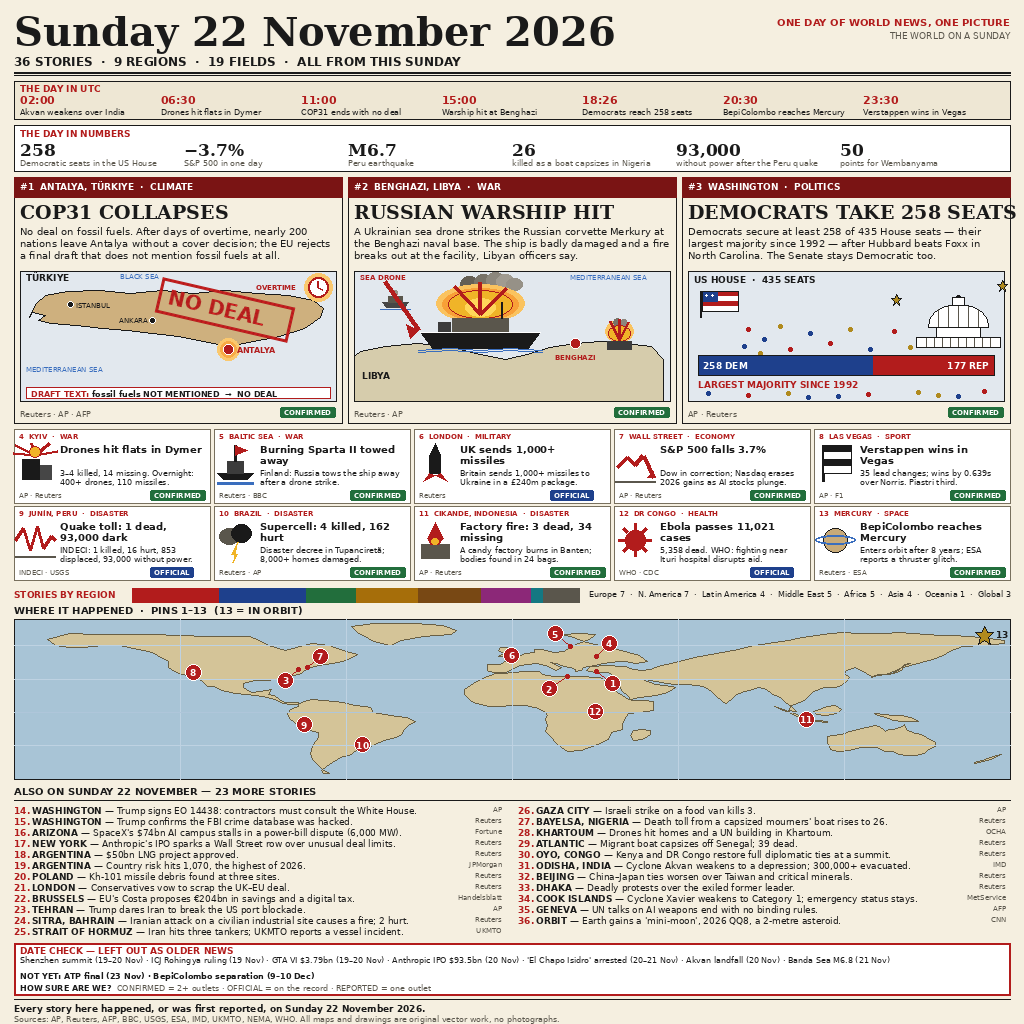
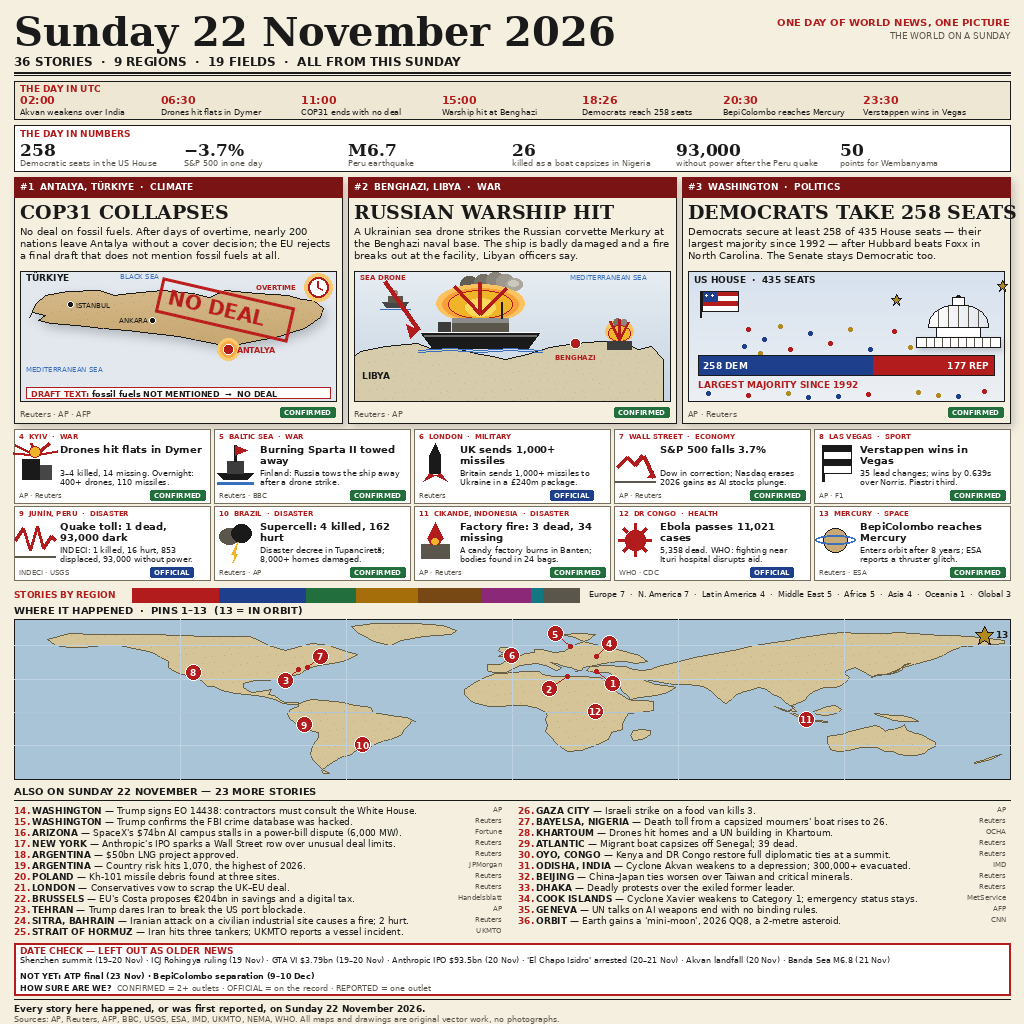
News image 22 v5: style finesse — subtle shading/gradient/texture + detailed coastlines
- Lead boxes: soft drop shadow under each of the 3 boxes
- Turkiye: land gradient (brighter top) + soft shadow + stipple texture + small bays/notches on the north coast
- Libya: sea gradient + ship superstructure highlight + hull lit edge + smoke gradient (dark base to light top) + coastal bays + land stipple
- Capitol: sky gradient + dome left-to-right gradient + soft shadow under base
- World map: coastline detail (Europe fjords/Iberia/Greece, SE Asia Malay/Vietnam, South America bays) + stipple texture on all continents
- Unchanged: layout, 36 stories, 19 fields, 9 regions, all text, NO DEAL stamp, Libya fire, 258/177 bar, confetti

Verified: 2 runs sha256 identical, 197,938 B, 1024x1024

diff --git a/build-image.py b/build-image.py
@@ -12,7 +12,7 @@ import hashlib
 import os
 import sys
 
-from PIL import Image, ImageDraw, ImageFont
+from PIL import Image, ImageDraw, ImageFilter, ImageFont
 
 W, H = 1024, 1024
 PAPER = (245, 239, 224)      # cream paper
@@ -95,6 +95,102 @@ def badge(draw, x, y, level):
 
 def rule(draw, x0, x1, y, fill=INK, width=1):
     draw.line([(x0, y), (x1, y)], fill=fill, width=width)
+
+
+# ---------------------------------------------------------------- v5 finesse
+# Subtle shading / gradient / texture helpers. All deterministic (no
+# randomness, no clock): gradients are per-row lerps, stipple jitter is
+# arithmetic on grid coords, GaussianBlur is deterministic in Pillow.
+def _poly_gradient(img, pts, c0, c1, horizontal=False):
+    """Fill polygon `pts` (absolute image coords) with a subtle gradient
+    c0 -> c1 (top->bottom, or left->right if horizontal)."""
+    xs = [p[0] for p in pts]
+    ys = [p[1] for p in pts]
+    x0, y0 = int(min(xs)), int(min(ys))
+    x1, y1 = int(max(xs)), int(max(ys))
+    w, h = x1 - x0 + 1, y1 - y0 + 1
+    grad = Image.new("RGB", (w, h))
+    gd = ImageDraw.Draw(grad)
+    if horizontal:
+        for j in range(w):
+            t = j / max(1, w - 1)
+            c = tuple(int(round(c0[i] + (c1[i] - c0[i]) * t)) for i in range(3))
+            gd.line([(j, 0), (j, h - 1)], fill=c)
+    else:
+        for j in range(h):
+            t = j / max(1, h - 1)
+            c = tuple(int(round(c0[i] + (c1[i] - c0[i]) * t)) for i in range(3))
+            gd.line([(0, j), (w - 1, j)], fill=c)
+    mask = Image.new("L", (w, h), 0)
+    ImageDraw.Draw(mask).polygon([(x - x0, y - y0) for x, y in pts], fill=255)
+    img.paste(grad, (x0, y0), mask)
+
+
+def _rect_gradient(img, x0, y0, w, h, top, bottom):
+    """Vertical gradient over a rectangle (top -> bottom)."""
+    x0, y0, w, h = int(x0), int(y0), int(w), int(h)
+    grad = Image.new("RGB", (w, h))
+    gd = ImageDraw.Draw(grad)
+    for j in range(h):
+        t = j / max(1, h - 1)
+        c = tuple(int(round(top[i] + (bottom[i] - top[i]) * t)) for i in range(3))
+        gd.line([(0, j), (w - 1, j)], fill=c)
+    img.paste(grad, (x0, y0))
+
+
+def _soft_shadow(img, pts, offset=(3, 5), blur=5, alpha=55):
+    """Soft drop shadow of a polygon: black shape offset down-right,
+    blurred, composited at low alpha. Draw BEFORE the shape itself so
+    the shape covers the shadow where they overlap."""
+    layer = Image.new("RGBA", img.size, (0, 0, 0, 0))
+    ld = ImageDraw.Draw(layer)
+    ld.polygon([(x + offset[0], y + offset[1]) for x, y in pts],
+               fill=(0, 0, 0, alpha))
+    layer = layer.filter(ImageFilter.GaussianBlur(blur))
+    base = img.convert("RGBA")
+    out = Image.alpha_composite(base, layer)
+    img.paste(out.convert("RGB"), (0, 0))
+
+
+def _rect_shadow(img, x0, y0, x1, y1, offset=(3, 4), blur=4, alpha=50):
+    """Soft drop shadow of a rectangle (for the lead boxes)."""
+    layer = Image.new("RGBA", img.size, (0, 0, 0, 0))
+    ld = ImageDraw.Draw(layer)
+    ld.rectangle([x0 + offset[0], y0 + offset[1], x1 + offset[0], y1 + offset[1]],
+                 fill=(0, 0, 0, alpha))
+    layer = layer.filter(ImageFilter.GaussianBlur(blur))
+    base = img.convert("RGBA")
+    out = Image.alpha_composite(base, layer)
+    img.paste(out.convert("RGB"), (0, 0))
+
+
+def _inside(px, py, pts):
+    """Point-in-polygon (ray casting), for stipple clipping."""
+    inside = False
+    n = len(pts)
+    j = n - 1
+    for i in range(n):
+        xi, yi = pts[i]
+        xj, yj = pts[j]
+        if (yi > py) != (yj > py):
+            if px < (xj - xi) * (py - yi) / (yj - yi) + xi:
+                inside = not inside
+        j = i
+    return inside
+
+
+def _stipple(draw, pts, dot, step=9):
+    """Very subtle 1px dot texture inside a polygon. Jitter is
+    arithmetic on grid coords (deterministic); dots are only a shade
+    darker than the land so they read as texture, not noise."""
+    xs = [p[0] for p in pts]
+    ys = [p[1] for p in pts]
+    for gy in range(int(min(ys)) + 4, int(max(ys)), step):
+        for gx in range(int(min(xs)) + 4, int(max(xs)), step):
+            jx = ((gx * 7 + gy * 13) % 5) - 2
+            jy = ((gx * 11 + gy * 3) % 5) - 2
+            if _inside(gx + jx, gy + jy, pts):
+                draw.point((gx + jx, gy + jy), fill=dot)
 
 
 # ---------------------------------------------------------------- data
@@ -334,22 +430,23 @@ GREENLAND = [
 SOUTH_AMERICA = [
     (-77, 7), (-75, 10), (-72, 12), (-68, 11), (-64, 10), (-61, 9),
     (-57, 6), (-53, 5), (-51, 4), (-50, 0), (-44, -3), (-38, -5),
-    (-35, -8), (-37, -11), (-39, -15), (-40, -20), (-42, -23), (-46, -25),
-    (-48, -27), (-52, -32), (-57, -35), (-58, -38), (-62, -41), (-65, -45),
-    (-67, -49), (-69, -52), (-68, -55), (-66, -55), (-68, -52), (-70, -48),
-    (-72, -42), (-73, -37), (-72, -30), (-70, -23), (-70, -18), (-75, -15),
-    (-77, -12), (-80, -6), (-81, -1), (-80, 3), (-77, 5),
+    (-35, -8), (-36, -7), (-37, -11), (-39, -15), (-40, -20), (-42, -23),
+    (-44, -24), (-46, -25), (-48, -27), (-52, -32), (-57, -35), (-58, -38),
+    (-62, -41), (-65, -45), (-67, -49), (-69, -52), (-68, -55), (-66, -55),
+    (-68, -52), (-70, -48), (-72, -42), (-73, -37), (-72, -30), (-71, -26),
+    (-70, -23), (-70, -18), (-75, -15), (-77, -12), (-80, -6), (-81, -1),
+    (-80, 3), (-77, 5),
 ]
 EUROPE = [
-    (18, 70), (25, 71), (30, 70), (28, 66), (24, 62), (21, 59), (19, 55),
+    (18, 70), (25, 71), (30, 70), (29, 68), (28, 66), (24, 62), (21, 59), (19, 55),
     (15, 54), (11, 57), (8, 57), (8, 54), (5, 53), (3, 51), (0, 50),
-    (-2, 49), (-2, 47), (-4, 43), (-9, 43), (-9, 38), (-8, 37), (-6, 36),
+    (-2, 49), (-2, 47), (-4, 43), (-9, 43), (-9, 41), (-9, 38), (-8, 37), (-6, 36),
     (-2, 36), (0, 39), (3, 42), (6, 43), (9, 44), (12, 42), (14, 40),
-    (16, 38), (18, 40), (16, 42), (14, 45), (16, 44), (18, 42), (19, 41),
-    (21, 40), (23, 39), (23, 37), (25, 38), (26, 40), (28, 41), (30, 42),
+    (16, 38), (17, 39), (18, 40), (16, 42), (14, 45), (16, 44), (18, 42), (19, 41),
+    (21, 40), (23, 39), (24, 38), (23, 37), (25, 38), (26, 40), (28, 41), (30, 42),
     (33, 44), (36, 45), (39, 46), (41, 46), (43, 45), (45, 44), (47, 45),
     (49, 46), (48, 48), (46, 51), (42, 54), (38, 57), (34, 59), (30, 61),
-    (27, 63), (24, 66), (21, 68),
+    (27, 63), (24, 66), (23, 67), (21, 68),
 ]
 BRITAIN = [
     (-5, 50), (-3, 53), (-5, 56), (-4, 58), (-2, 58), (0, 57), (0, 53),
@@ -379,8 +476,8 @@ ASIA = [
     (163, 59), (158, 55), (156, 51), (152, 48), (148, 45), (144, 42),
     (141, 40), (138, 37), (135, 34), (132, 33), (130, 32), (128, 35),
     (127, 37), (126, 38), (124, 40), (121, 38), (120, 35), (122, 31),
-    (121, 28), (119, 24), (117, 22), (113, 22), (109, 19), (106, 12),
-    (104, 9), (101, 6), (100, 2), (103, 1), (101, 5), (99, 9), (97, 13),
+    (121, 28), (119, 24), (117, 22), (113, 22), (109, 19), (107, 15), (106, 12),
+    (105, 10), (104, 9), (101, 6), (102, 4), (100, 2), (103, 1), (101, 5), (99, 9), (97, 13),
     (94, 16), (92, 21), (89, 22), (87, 21), (84, 19), (81, 16), (80, 13),
     (78, 9), (77, 8), (76, 10), (74, 14), (72, 19), (70, 22), (67, 24),
     (63, 25), (59, 25), (56, 26), (54, 27), (52, 28), (50, 29), (48, 30),
@@ -435,6 +532,9 @@ def draw_world_map(draw, x0, y0, w, h):
         pts = [world_xy(lat, lon, x0, y0, w, h) for lon, lat in poly]
         # darker land + darker coastline so continents pop off the sea
         draw.polygon(pts, fill=(212, 196, 152), outline=(105, 95, 68))
+        # v5: very subtle dot texture on the land (reads as paper grain,
+        # not noise) — drawn before graticule/pins so they stay crisp
+        _stipple(draw, pts, (192, 174, 128), step=9)
     # graticule: every 60 deg lon, lat 60/30/-30; equator slightly stronger
     for lon in (-120, -60, 0, 60, 120):
         x = x0 + (lon + 180.0) / 360.0 * w
@@ -475,16 +575,23 @@ def draw_turkiye(img, draw, x0, y0, w, h):
     "a conference that failed", not just a map. The draft-text box stays
     as a single line at the bottom. Everything stays inside (x0, y0, w, h)."""
     draw.rectangle([x0, y0, x0 + w, y0 + h], fill=(226, 232, 238), outline=INK, width=1)
-    poly = [(0.03, 0.36), (0.05, 0.26), (0.08, 0.19), (0.15, 0.16),
-            (0.25, 0.15), (0.35, 0.17), (0.45, 0.15), (0.55, 0.17),
-            (0.65, 0.15), (0.75, 0.17), (0.85, 0.19), (0.93, 0.23),
-            (0.96, 0.29), (0.95, 0.36), (0.90, 0.44), (0.82, 0.50),
-            (0.74, 0.54), (0.66, 0.58), (0.58, 0.54), (0.50, 0.50),
+    poly = [(0.03, 0.36), (0.04, 0.31), (0.05, 0.26), (0.08, 0.19), (0.15, 0.16),
+            (0.25, 0.15), (0.30, 0.19), (0.35, 0.17), (0.45, 0.15), (0.55, 0.17),
+            (0.60, 0.20), (0.65, 0.15), (0.75, 0.17), (0.85, 0.19), (0.89, 0.22),
+            (0.93, 0.23), (0.96, 0.29), (0.95, 0.36), (0.90, 0.44), (0.86, 0.47),
+            (0.82, 0.50), (0.74, 0.54), (0.66, 0.58), (0.58, 0.54), (0.50, 0.50),
             (0.42, 0.48), (0.34, 0.46), (0.26, 0.44), (0.18, 0.42),
             (0.10, 0.40), (0.06, 0.38), (0.08, 0.34), (0.04, 0.32)]
     pts = [(x0 + px * w, y0 + py * h) for px, py in poly]
-    # warmer, darker land so the map reads as a shape, not a pale silhouette
-    draw.polygon(pts, fill=(206, 176, 126), outline=INK)
+    # v5: soft shadow under the map (drawn first, land covers the
+    # overlap, only the fringe shows on the sea) + subtle vertical
+    # gradient on the land (brighter at the top, a touch darker below)
+    # + very subtle dot texture — warmer, darker land so the map reads
+    # as a shape, not a pale silhouette
+    _soft_shadow(img, pts, offset=(3, 5), blur=5, alpha=55)
+    _poly_gradient(img, pts, (212, 184, 136), (198, 166, 112))
+    draw.polygon(pts, fill=None, outline=INK)
+    _stipple(draw, pts, (186, 156, 106), step=9)
     draw.text((x0 + 6, y0 + 1), "TÜRKIYE", font=font(SANSB, 9), fill=INK)
     draw.text((x0 + 100, y0 + 1), "BLACK SEA", font=font(SANS, 7), fill=BLUE2)
     # OVERTIME clock, top right (in the Black Sea, clear of the land),
@@ -533,7 +640,7 @@ def draw_turkiye(img, draw, x0, y0, w, h):
               font=font(SANSB, 8), fill=INK)
 
 
-def draw_libya(draw, x0, y0, w, h):
+def draw_libya(img, draw, x0, y0, w, h):
     """Libya / Mediterranean SCENE (130px box): the sea fills the top
     two-thirds, a BIG burning warship (120px hull) sits low in the sea
     with a two-tier orange fire and five smoke puffs billowing up and
@@ -541,15 +648,21 @@ def draw_libya(draw, x0, y0, w, h):
     a burning port facility on the coast near Benghazi, and a thick red
     SEA DRONE arrow. At 300px the first thing seen is the burning ship.
     Everything stays inside the box (x0, y0, w, h)."""
-    draw.rectangle([x0, y0, x0 + w, y0 + h], fill=(226, 232, 238), outline=INK, width=1)
+    # v5: subtle vertical gradient on the sea (lighter at the top,
+    # deeper below) instead of a flat fill
+    _rect_gradient(img, x0, y0, w, h, (230, 236, 241), (198, 212, 226))
+    draw.rectangle([x0, y0, x0 + w, y0 + h], outline=INK, width=1)
     # land: north coast lower than v3 (more sea room for the ship +
     # smoke), with the Sidra gulf dip; extends past the bottom
-    poly = [(0.02, 0.62), (0.10, 0.58), (0.20, 0.56), (0.30, 0.58),
-            (0.40, 0.64), (0.48, 0.68), (0.55, 0.64), (0.62, 0.59),
-            (0.70, 0.56), (0.78, 0.54), (0.86, 0.56), (0.94, 0.58),
+    poly = [(0.02, 0.62), (0.10, 0.58), (0.20, 0.56), (0.25, 0.60),
+            (0.30, 0.58), (0.40, 0.64), (0.44, 0.66), (0.48, 0.68),
+            (0.55, 0.64), (0.62, 0.59), (0.70, 0.56), (0.78, 0.54),
+            (0.86, 0.56), (0.90, 0.60), (0.94, 0.58),
             (0.98, 0.68), (0.98, 1.0), (0.0, 1.0), (0.0, 0.66)]
     pts = [(x0 + px * w, y0 + py * h) for px, py in poly]
     draw.polygon(pts, fill=LAND2, outline=INK)
+    # v5: very subtle dot texture on the land
+    _stipple(draw, pts, (194, 182, 148), step=9)
     draw.text((x0 + 6, y0 + 2), "SEA DRONE", font=font(SANSB, 7), fill=RED)
     draw.text((x0 + w - 100, y0 + 2), "MEDITERRANEAN SEA", font=font(SANS, 7), fill=BLUE2)
     draw.text((x0 + 8, y0 + 0.76 * h), "LIBYA", font=font(SANSB, 9), fill=INK)
@@ -578,12 +691,15 @@ def draw_libya(draw, x0, y0, w, h):
     draw.line([(sx2 - 15, sy2 + 7), (sx2 + 15, sy2 + 7)], fill=BLUE2, width=1)
     # BIG burning warship, low in the sea (waterline just above the coast)
     sx, sy = x0 + 0.40 * w, y0 + 0.52 * h
-    # smoke: 5 puffs billowing up and to the right (wind), above the fire
-    draw.ellipse([sx - 20, sy - 62, sx - 2, sy - 46], fill=(100, 95, 85))
-    draw.ellipse([sx - 6, sy - 64, sx + 12, sy - 48], fill=(120, 115, 105))
-    draw.ellipse([sx + 6, sy - 66, sx + 24, sy - 50], fill=(140, 135, 125))
-    draw.ellipse([sx + 16, sy - 64, sx + 34, sy - 50], fill=(160, 155, 145))
-    draw.ellipse([sx + 26, sy - 60, sx + 42, sy - 48], fill=(150, 145, 135))
+    # smoke: 5 puffs billowing up and to the right (wind), above the
+    # fire — v5: clean gradient, darkest at the base, lightest at the
+    # top, plus a pale highlight on the topmost puff
+    draw.ellipse([sx - 20, sy - 62, sx - 2, sy - 46], fill=(98, 93, 83))
+    draw.ellipse([sx - 6, sy - 64, sx + 12, sy - 48], fill=(118, 113, 103))
+    draw.ellipse([sx + 6, sy - 66, sx + 24, sy - 50], fill=(138, 133, 123))
+    draw.ellipse([sx + 16, sy - 64, sx + 34, sy - 50], fill=(158, 153, 143))
+    draw.ellipse([sx + 26, sy - 60, sx + 42, sy - 48], fill=(172, 167, 157))
+    draw.ellipse([sx + 28, sy - 58, sx + 38, sy - 52], fill=(205, 200, 190))
     # fire: two-tier orange glow + bright core + tall red flame tongues
     draw.ellipse([sx - 44, sy - 54, sx + 44, sy - 16], fill=(250, 195, 95))
     draw.ellipse([sx - 38, sy - 50, sx + 38, sy - 18], fill=(248, 160, 55))
@@ -591,14 +707,18 @@ def draw_libya(draw, x0, y0, w, h):
     draw.ellipse([sx - 15, sy - 40, sx + 15, sy - 22], fill=(255, 215, 90))
     for dx, dy in [(-26, -52), (0, -56), (26, -50)]:
         draw.line([(sx, sy - 24), (sx + dx, sy + dy)], fill=RED, width=4)
-    # superstructure + funnel + mast
+    # superstructure + funnel + mast — v5: light strip on top of the
+    # superstructure so the firelight reads as shading, not flat grey
     draw.rectangle([sx - 28, sy - 20, sx + 28, sy - 6], fill=GREY)
+    draw.rectangle([sx - 28, sy - 20, sx + 28, sy - 16], fill=(140, 140, 140))
     draw.rectangle([sx - 42, sy - 16, sx - 30, sy - 6], fill=(60, 60, 60))
     draw.line([(sx + 22, sy - 20), (sx + 22, sy - 36)], fill=INK, width=2)
-    # hull: dark, 120px wide
+    # hull: dark, 120px wide — v5: thin grey highlight just under the
+    # white waterline so the hull has a lit edge
     draw.polygon([(sx - 60, sy - 6), (sx + 60, sy - 6), (sx + 48, sy + 10),
                   (sx - 48, sy + 10)], fill=INK)
     draw.line([(sx - 60, sy - 6), (sx + 60, sy - 6)], fill=(255, 255, 255), width=1)
+    draw.line([(sx - 56, sy - 3), (sx + 56, sy - 3)], fill=(110, 110, 110), width=2)
     # waves under the hull (in the sea, just above the coast)
     for wy in (sy + 12, sy + 14):
         draw.line([(sx - 62, wy), (sx - 30, wy - 2), (sx, wy), (sx + 30, wy - 2),
@@ -608,13 +728,15 @@ def draw_libya(draw, x0, y0, w, h):
     draw.polygon([(sx - 62, sy - 8), (sx - 74, sy - 14), (sx - 70, sy)], fill=RED)
 
 
-def draw_house_chart(draw, x0, y0, w, h):
+def draw_house_chart(img, draw, x0, y0, w, h):
     """US House seats (130px box): 258 Dem (blue) vs 177 Rep (red),
     stacked bar + a BIG detailed Capitol (ribbed dome, lantern, columned
     base) and a small US flag — plus victory confetti dots and two gold
     stars scattered in the empty space, so the scene reads as a win.
     Everything stays inside the box (x0, y0, w, h)."""
-    draw.rectangle([x0, y0, x0 + w, y0 + h], fill=(226, 232, 238), outline=INK, width=1)
+    # v5: subtle sky gradient (pale blue at the top fading to near-white)
+    _rect_gradient(img, x0, y0, w, h, (214, 225, 238), (236, 239, 243))
+    draw.rectangle([x0, y0, x0 + w, y0 + h], outline=INK, width=1)
     draw.text((x0 + 6, y0 + 3), "US HOUSE  ·  435 SEATS", font=font(SANSB, 9), fill=INK)
     # small US flag, top left under the title
     fx, fy = x0 + 12, y0 + 20
@@ -629,11 +751,14 @@ def draw_house_chart(draw, x0, y0, w, h):
     # the bar sits at y0+84, so the base (ends y0+76) just clears it.
     cx = x0 + w - 46
     base_top = y0 + 66
-    # dome: smooth half-ellipse polygon (offsets from cx, base_top)
+    # dome: smooth half-ellipse polygon (offsets from cx, base_top) —
+    # v5: subtle left-to-right gradient (bright white on the lit side,
+    # faintly shaded on the right) instead of a flat fill
     dome = [(-30, -10), (-29, -18), (-24, -25), (-16, -30), (-9, -32),
             (0, -32), (9, -32), (16, -30), (24, -25), (29, -18), (30, -10)]
-    draw.polygon([(cx + dx, base_top + dy) for dx, dy in dome],
-                 fill=(255, 255, 255), outline=INK)
+    dome_pts = [(cx + dx, base_top + dy) for dx, dy in dome]
+    _poly_gradient(img, dome_pts, (255, 255, 255), (224, 229, 237), horizontal=True)
+    draw.polygon(dome_pts, fill=None, outline=INK)
     # ribs on the dome
     for dx, top in [(-20, -28), (-10, -31), (0, -32), (10, -31), (20, -28)]:
         draw.line([(cx + dx, base_top + top), (cx + dx, base_top - 11)],
@@ -645,6 +770,11 @@ def draw_house_chart(draw, x0, y0, w, h):
     # drum
     draw.rectangle([cx - 22, base_top - 10, cx + 22, base_top],
                    fill=(255, 255, 255), outline=INK)
+    # v5: soft shadow under the base (drawn first so the opaque base
+    # covers the overlap — only the fringe below shows)
+    _soft_shadow(img, [(cx - 42, base_top), (cx + 42, base_top),
+                       (cx + 42, base_top + 10), (cx - 42, base_top + 10)],
+                 offset=(2, 3), blur=3, alpha=45)
     # base with columns
     draw.rectangle([cx - 42, base_top, cx + 42, base_top + 10],
                    fill=(255, 255, 255), outline=INK)
@@ -732,7 +862,10 @@ def render():
     col_w = (RX - MX - 12) / 3.0
     for i, (num, kick, head, deck, src, conf) in enumerate(LEADS):
         x = MX + i * (col_w + 6)
-        d.rectangle([x, y, x + col_w, y + lead_h], outline=INK, width=1)
+        # v5: soft drop shadow under the lead box (drawn first; the
+        # opaque paper fill covers the overlap, only the fringe shows)
+        _rect_shadow(img, x, y, x + col_w, y + lead_h)
+        d.rectangle([x, y, x + col_w, y + lead_h], fill=PAPER, outline=INK, width=1)
         d.rectangle([x, y, x + col_w, y + 20], fill=REDBG)
         d.text((x + 6, y + 4), f"#{num}  {kick}", font=font(SANSB, 9), fill=(255, 255, 255))
         d.text((x + 6, y + 24), head, font=font(SERIFB, 19), fill=INK)
@@ -744,9 +877,9 @@ def render():
         if num == 1:
             draw_turkiye(img, d, x + 6, iy, col_w - 12, ih)
         elif num == 2:
-            draw_libya(d, x + 6, iy, col_w - 12, ih)
+            draw_libya(img, d, x + 6, iy, col_w - 12, ih)
         else:
-            draw_house_chart(d, x + 6, iy, col_w - 12, ih)
+            draw_house_chart(img, d, x + 6, iy, col_w - 12, ih)
         # source + badge
         sy = y + lead_h - 16
         d.text((x + 6, sy + 2), src, font=font(SANS, 8), fill=GREY)
